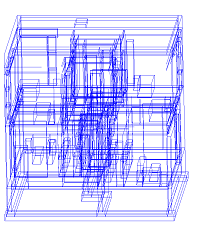
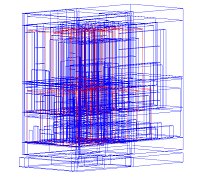
documentation

diff --git a/converter/src/main/java/org/linkedbuildingdata/ifc2lbd/core/IFCtoLBDConverterCore.java b/converter/src/main/java/org/linkedbuildingdata/ifc2lbd/core/IFCtoLBDConverterCore.java
@@ -513,6 +513,9 @@ public abstract class IFCtoLBDConverterCore {
         if (lbd_product_type.isPresent()) {
             Resource lbd_element = createformattedURIRecource(ifcowl_element, this.lbd_general_output_model, lbd_product_type.get().getLocalName());
             Resource lbd_property_object = this.lbd_product_output_model.createResource(lbd_element.getURI());
+            
+            String guid = IfcOWLUtils.getGUID(ifcowl_element, this.ifcOWL);
+            addBoundingBox(lbd_element, guid);
 
             if (predefined_type.isPresent()) {
                 Resource product = this.lbd_product_output_model.createResource(lbd_product_type.get().getURI() + "-" + predefined_type.get());
